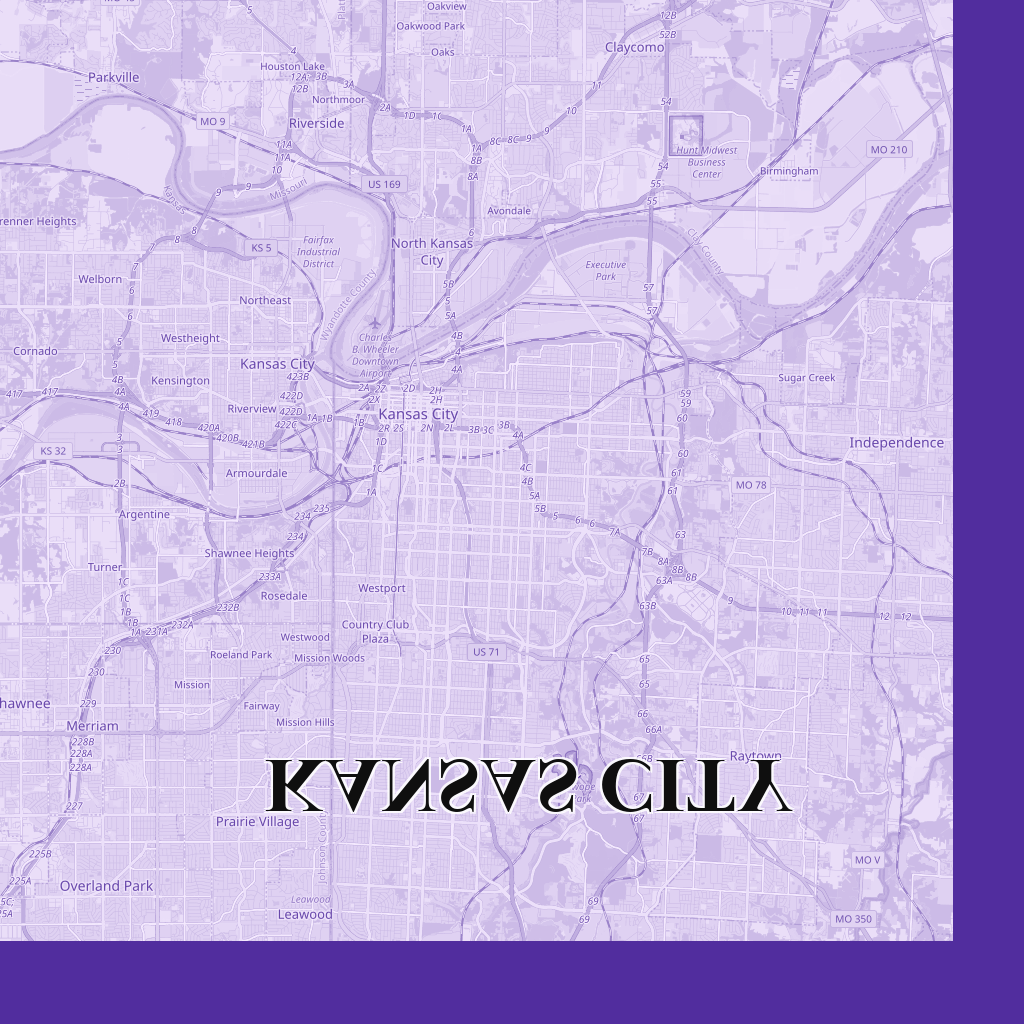
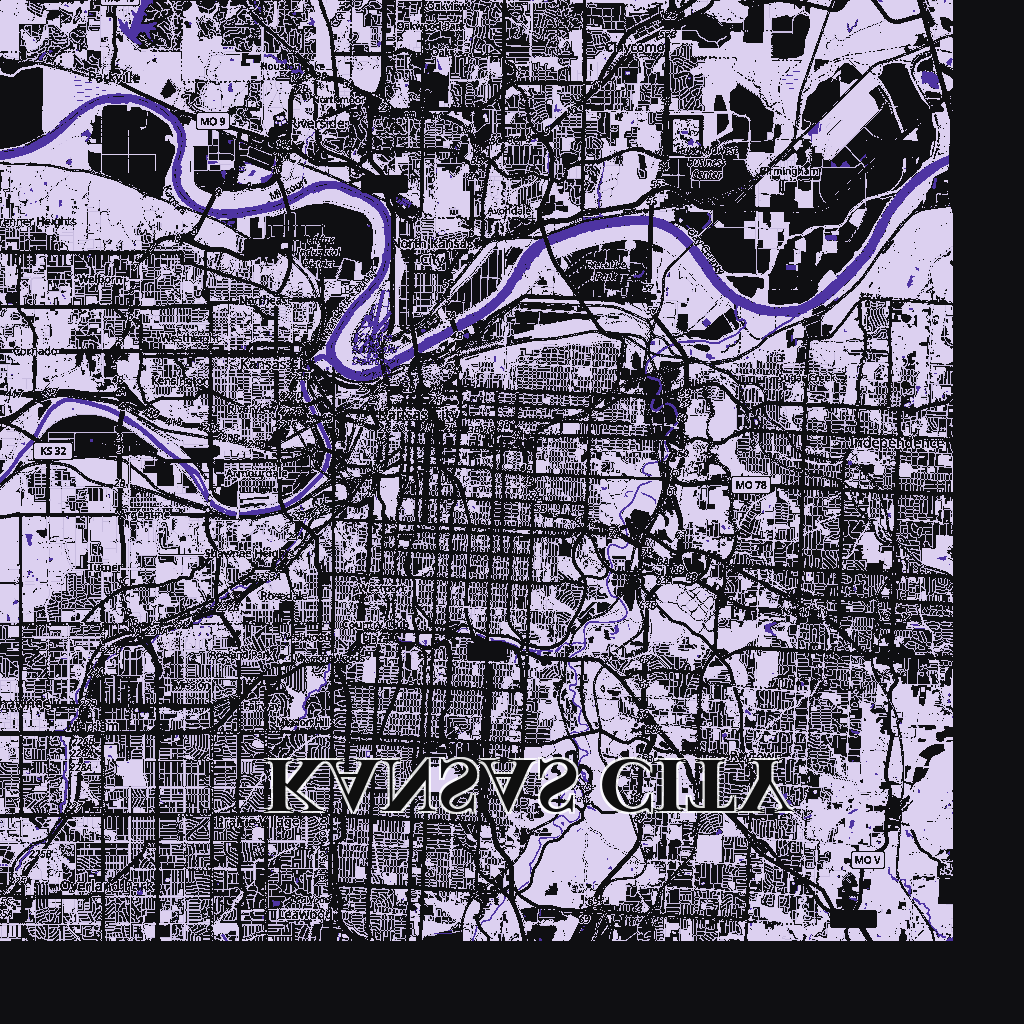
Art frame: roads black, water deep lavender, LA/NY lean against KC
- Color-segmented OSM tiles → roads/text/lines black, water deep lavender
- LA recentered to Westside (34.06,-118.44) — coast at left edge only
- KC + LA stretched 1.45/1.40× vertically (portrait pieces)
- LA leans -22°, NY leans -25° so tops contact KC's front face → real cast shadows

diff --git a/scripts/_fetch_city_maps.py b/scripts/_fetch_city_maps.py
@@ -11,9 +11,11 @@ os.makedirs(OUT, exist_ok=True)
 ZOOM = 12
 
 CITIES = {
-    "kansas_city": (39.0997, -94.5786, "Kansas City"),
-    "los_angeles": (34.0522, -118.2437, "Los Angeles"),
-    "new_york":    (40.7580, -73.9855, "Manhattan"),
+    "kansas_city": (39.0997, -94.5786,  "Kansas City"),
+    # Westside LA (Brentwood/West LA) — coast at far-left edge, ocean visible
+    # but not dominant; ~5km inland from the Pacific.
+    "los_angeles": (34.0600, -118.4400, "Los Angeles"),
+    "new_york":    (40.7580, -73.9855,  "Manhattan"),
 }
 
 UA = "LevlIconRenderer/1.0 (caydonac@gmail.com)"
@@ -25,30 +27,59 @@ def lonlat_to_tile(lon, lat, z):
     y = (1 - math.log(math.tan(rad) + 1/math.cos(rad)) / math.pi) / 2 * 2**z
     return x, y
 
-DUOTONE_PALETTE = {
-    "kansas_city": ((0.96, 0.92, 1.00), (0.32, 0.18, 0.62)),  # light lavender → deep purple
-    "los_angeles": ((0.97, 0.94, 1.00), (0.50, 0.36, 0.84)),  # mid lavender duotone
-    "new_york":    ((0.99, 0.97, 1.00), (0.65, 0.55, 0.92)),  # very light lavender
+# Per-city background + water lavender shades (graduated dark→light for KC/LA/NY).
+# Roads are always black; this just controls the land bg + water tint.
+CITY_PALETTE = {
+    #              (land bg RGB,            water lavender RGB,      building tint RGB)
+    "kansas_city": ((220, 208, 240),        ( 78,  52, 162),         (200, 188, 224)),
+    "los_angeles": ((232, 222, 248),        ( 95,  70, 178),         (215, 202, 236)),
+    "new_york":    ((242, 235, 252),        (115,  88, 196),         (228, 218, 246)),
 }
 
+ROAD_BLACK = (15, 15, 18)
 
-def lavender_duotone(img, key):
-    """Map grayscale luminance → linear interpolation between a light
-    and dark lavender. Each city gets its own dark-end shade so the trio
-    reads as small/medium/large in graduated lavender tones."""
-    light, dark = DUOTONE_PALETTE.get(key, ((0.97, 0.94, 1.00), (0.45, 0.30, 0.78)))
-    gs = img.convert("L")
-    out = Image.new("RGB", img.size, (255, 255, 255))
-    px_in  = gs.load()
+
+def osm_to_levl(img, key):
+    """Recolor OSM standard tiles → Levl palette.
+
+    Strategy: classify into FOUR explicit categories (water, park, land,
+    building); everything else → BLACK. Catches all road types plus their
+    anti-aliased outlines, dashes, and thin map lines that previously fell
+    through and stayed light/washed out.
+
+    OSM palette landmarks (approx):
+      water       ~(170,211,223) — B>R, blueish
+      park/forest ~(199,235,161) / (173,209,158) — G>R and G>B
+      land bg     ~(242,239,233) / (255,244,195) beach — high+warm
+      building    ~(217,208,201) gray-tan
+      ALL ROADS   white / yellow / orange / pink → BLACK
+      labels      dark text → BLACK (caught by ELSE branch)
+    """
+    bg, water, building = CITY_PALETTE.get(key, CITY_PALETTE["los_angeles"])
+    src = img.convert("RGB")
+    out = Image.new("RGB", src.size, bg)
+    px_in = src.load()
     px_out = out.load()
-    W_, H_ = img.size
+    W_, H_ = src.size
     for y in range(H_):
         for x in range(W_):
-            t = px_in[x, y] / 255.0  # 0=dark, 1=light
-            r = int((dark[0] + (light[0] - dark[0]) * t) * 255)
-            g = int((dark[1] + (light[1] - dark[1]) * t) * 255)
-            b = int((dark[2] + (light[2] - dark[2]) * t) * 255)
-            px_out[x, y] = (r, g, b)
+            r, g, b = px_in[x, y]
+            # water — distinctly blue
+            if b > r + 8 and b > 175 and b > g - 5:
+                px_out[x, y] = water
+            # parks / green spaces — distinctly green
+            elif g > r + 8 and g > b + 8 and g > 180:
+                px_out[x, y] = bg
+            # land background — high luminance, warm cream/beach (R ≥ G ≥ B
+            # with all channels >170 covers cream land + pale beach yellow)
+            elif r > 230 and g > 215 and b > 170 and r >= g and (r - b) < 90 and (g - b) < 70:
+                px_out[x, y] = bg
+            # buildings — gray-beige cluster
+            elif 200 < r < 230 and 195 < g < 220 and 190 < b < 215 and abs(r - g) < 25 and abs(g - b) < 25:
+                px_out[x, y] = building
+            # everything else (any road, any text, any line) → BLACK
+            else:
+                px_out[x, y] = ROAD_BLACK
     return out
 
 
@@ -97,7 +128,7 @@ def fetch_city(lat, lon, name, key, zoom=ZOOM):
     canvas.paste(crop, (0, 0))
 
     # Duotone recolor — convert to lavender palette to match Levl style.
-    canvas = lavender_duotone(canvas, key)
+    canvas = osm_to_levl(canvas, key)
     # Crop the canvas (1024x1024 center) — already exactly 1024x1024
     # Add city label
     d = ImageDraw.Draw(canvas)

diff --git a/scripts/render_mount_objects_v2.py b/scripts/render_mount_objects_v2.py
@@ -283,27 +283,54 @@ def swap_print_texture(meshes, image_path):
     print(f"  [{target_mesh.name}] swapped print texture → {os.path.basename(image_path)}")
 
 
+def stretch_z(meshes, factor):
+    """Non-uniform Z-scale around z=0 (frames already snapped bottom-to-floor
+    by fit_and_pose, so this stretches purely upward → taller portrait piece)."""
+    if abs(factor - 1.0) < 1e-3:
+        return
+    Sz = mathutils.Matrix.Scale(factor, 4, Vector((0, 0, 1)))
+    for o in meshes:
+        o.matrix_world = Sz @ o.matrix_world
+    bpy.ops.object.select_all(action='DESELECT')
+    for o in meshes: o.select_set(True)
+    bpy.context.view_layer.objects.active = meshes[0]
+    try: bpy.ops.object.transform_apply(location=True, scale=True, rotation=True)
+    except RuntimeError: pass
+
+
 def compose_art_frame_trio(glb_path):
-    """Three frames — large NEW YORK (rear), medium KANSAS CITY (left),
-    small LOS ANGELES (right-front). Print textures are procedurally
-    generated stylized city maps."""
+    """Three frames composited as one piece:
+      • KC (largest, upright, taller portrait) — back, dominant
+      • LA (medium, taller portrait, leaning back against KC) — front-left
+      • NY (small, leaning back against KC) — front-right
+    Lean = negative X-axis rotation (top tilts +Y, away from camera at -Y)."""
     here = os.path.dirname(glb_path)
     base_glb = os.path.join(here, "sketchfab_art_frame_modern.glb")
     tex_ny    = os.path.join(here, "city_new_york.png")
     tex_kc    = os.path.join(here, "city_kansas_city.png")
     tex_la    = os.path.join(here, "city_los_angeles.png")
 
-    # Large — Kansas City downtown (rear-right, dominant)
+    # KC — large, upright, stretched tall (rear, dominant). Front face plane
+    # sits at world y ≈ 0.45 (slight thickness ~±0.02 around that).
     m_lg = import_glb_at(base_glb, target_height=2.2, rot_xyz=(0, 0, 0),
-                         z_floor=0.0, x_offset=0.45, y_offset=0.40)
+                         z_floor=0.0, x_offset=0.30, y_offset=0.45)
+    stretch_z(m_lg, 1.45)
     swap_print_texture(m_lg, tex_kc)
-    # Medium — Los Angeles downtown (left, slightly forward)
-    m_md = import_glb_at(base_glb, target_height=1.6, rot_xyz=(0, 0, math.radians(8)),
-                         z_floor=0.0, x_offset=-0.65, y_offset=-0.10)
+
+    # LA — medium, stretched tall, leaning back 22° so its TOP edge actually
+    # rests against KC's front face (top y ≈ -0.40 + sin22°·2.24 ≈ 0.44).
+    # Geometric contact = Cycles renders a real cast shadow on KC.
+    m_md = import_glb_at(base_glb, target_height=1.6,
+                         rot_xyz=(math.radians(-22), 0, math.radians(8)),
+                         z_floor=0.0, x_offset=-0.40, y_offset=-0.40)
+    stretch_z(m_md, 1.40)
     swap_print_texture(m_md, tex_la)
-    # Small — Manhattan (right-front, leaning more)
-    m_sm = import_glb_at(base_glb, target_height=1.05, rot_xyz=(0, 0, math.radians(-6)),
-                         z_floor=0.0, x_offset=0.95, y_offset=-0.45)
+
+    # NY — small, leaning back 25° so its top contacts KC at ~30% height
+    # (top y ≈ 0.00 + sin25°·1.05 ≈ 0.44). Right side, slight opposite yaw.
+    m_sm = import_glb_at(base_glb, target_height=1.05,
+                         rot_xyz=(math.radians(-25), 0, math.radians(-6)),
+                         z_floor=0.0, x_offset=0.95, y_offset=0.00)
     swap_print_texture(m_sm, tex_ny)
 
 
